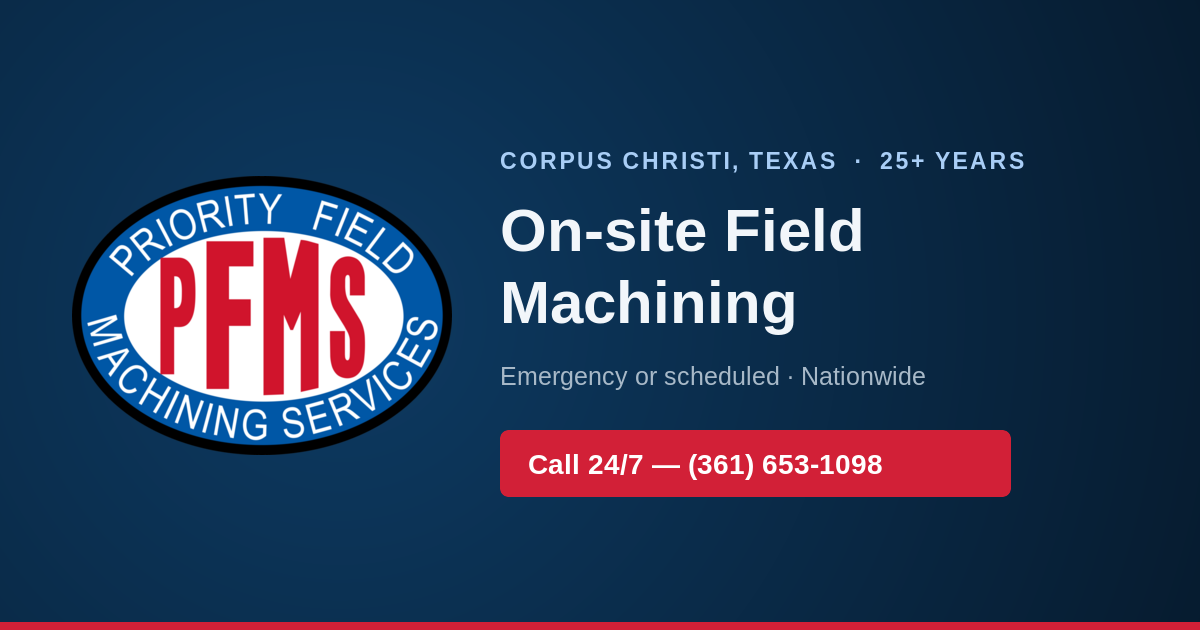
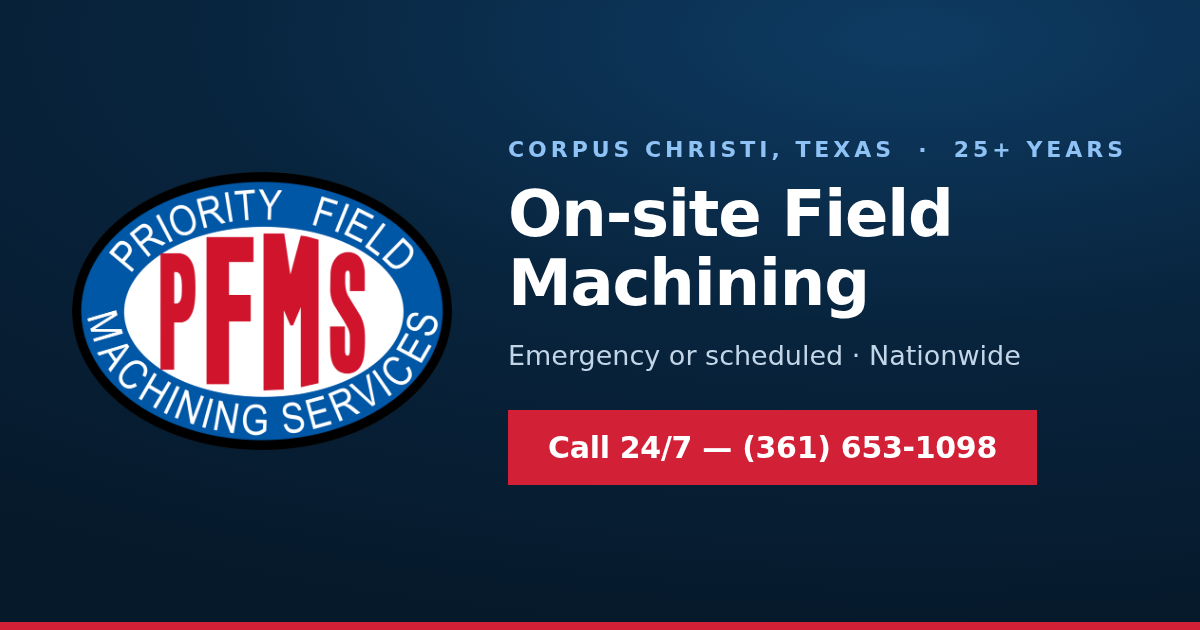
Square the share card button and center its number
Two things on the new card did not match the site:

- The phone button was a fixed-width box with the text left-biased inside
  it: 27px of padding on the left, 128px on the right. The button is now
  sized to its text, 42px and 44px (the 2px is glyph bearing, not the box).
- The button had a ~10px corner radius. style.css sets --r and --r-lg to 0
  on purpose - square edges read as machined metal, rounded ones read as
  consumer software - so the card was the only rounded thing in the brand.
  It is now square, matching .call-btn.

Rebuilding it also moved the rest of the card onto the real tokens rather
than approximations of them: the hero's own radial gradient over
--hero-mid, #8fc2f5 and #c3d6e8 for the eyebrow and lede (the two
contrast-checked hero colors), --red on the button, and the hero's red
bottom rule.

Adds images/share-card.src.html, the card as HTML, because the first
version shipped as pixels with no source - which is how it drifted from
the theme in the first place. It is noindex, is not linked from any page,
and carries the chromium render command in a comment.

Same filename, same URL, same 1200x630, so every page's og:image and its
declared dimensions still hold. No HTML, CSS, meta tags, URLs, or content
changed. 134KB -> 174KB; the gradient renders with more depth.

Claude-Session: https://claude.ai/code/session_012JsdG3ZiztGqqSHHbrjudX

diff --git a/images/share-card.src.html b/images/share-card.src.html
@@ -1,0 +1,51 @@
+<!doctype html>
+<!-- Source for images/share-card.png (the og:image). Not linked from the site
+     and marked noindex; it exists so the card can be regenerated rather than
+     hand-edited as pixels. Uses the site's own hero gradient, brand colors and
+     square corners (--r: 0). Render from the repo root with:
+
+       chromium --headless --no-sandbox --hide-scrollbars \
+         --force-device-scale-factor=1 --window-size=1200,630 \
+         --screenshot=images/share-card.png images/share-card.src.html
+-->
+<html><head><meta charset="utf-8"><meta name="robots" content="noindex">
+<title>Share card source (1200x630) - not a site page</title><style>
+  * { box-sizing: border-box; margin: 0; }
+  html, body { width: 1200px; height: 630px; }
+  body {
+    font-family: system-ui, -apple-system, "Segoe UI", Roboto, "Helvetica Neue", Arial, sans-serif;
+    background-color: #08243d;
+    background-image: radial-gradient(125% 95% at 76% 6%, #0e3b63 0%, #08243d 48%, #06192b 100%);
+    border-bottom: 8px solid #d22037;
+    display: grid;
+    grid-template-columns: auto minmax(0, 1fr);
+    align-items: center;
+    gap: 56px;
+    padding: 64px 72px;
+    overflow: hidden;
+  }
+  .mark { width: 380px; height: auto; display: block; }
+  .eyebrow {
+    font-size: 22px; font-weight: 700; letter-spacing: 0.18em;
+    text-transform: uppercase; color: #8fc2f5; margin-bottom: 18px;
+  }
+  h1 {
+    color: #fff; font-size: 64px; font-weight: 800;
+    letter-spacing: -0.018em; line-height: 1.08; margin-bottom: 18px;
+  }
+  .lede { font-size: 27px; line-height: 1.5; color: #c3d6e8; margin-bottom: 34px; }
+  .btn {
+    display: inline-flex; align-items: center; justify-content: center;
+    background: #d22037; color: #fff; border-radius: 0;
+    padding: 20px 40px; font-size: 30px; font-weight: 800; letter-spacing: -0.01em;
+  }
+</style></head>
+<body>
+  <img class="mark" src="pfms-logo.png" alt="">
+  <div>
+    <p class="eyebrow">Corpus Christi, Texas &nbsp;·&nbsp; 25+ Years</p>
+    <h1>On-site Field Machining</h1>
+    <p class="lede">Emergency or scheduled · Nationwide</p>
+    <span class="btn">Call 24/7 — (361) 653-1098</span>
+  </div>
+</body></html>
